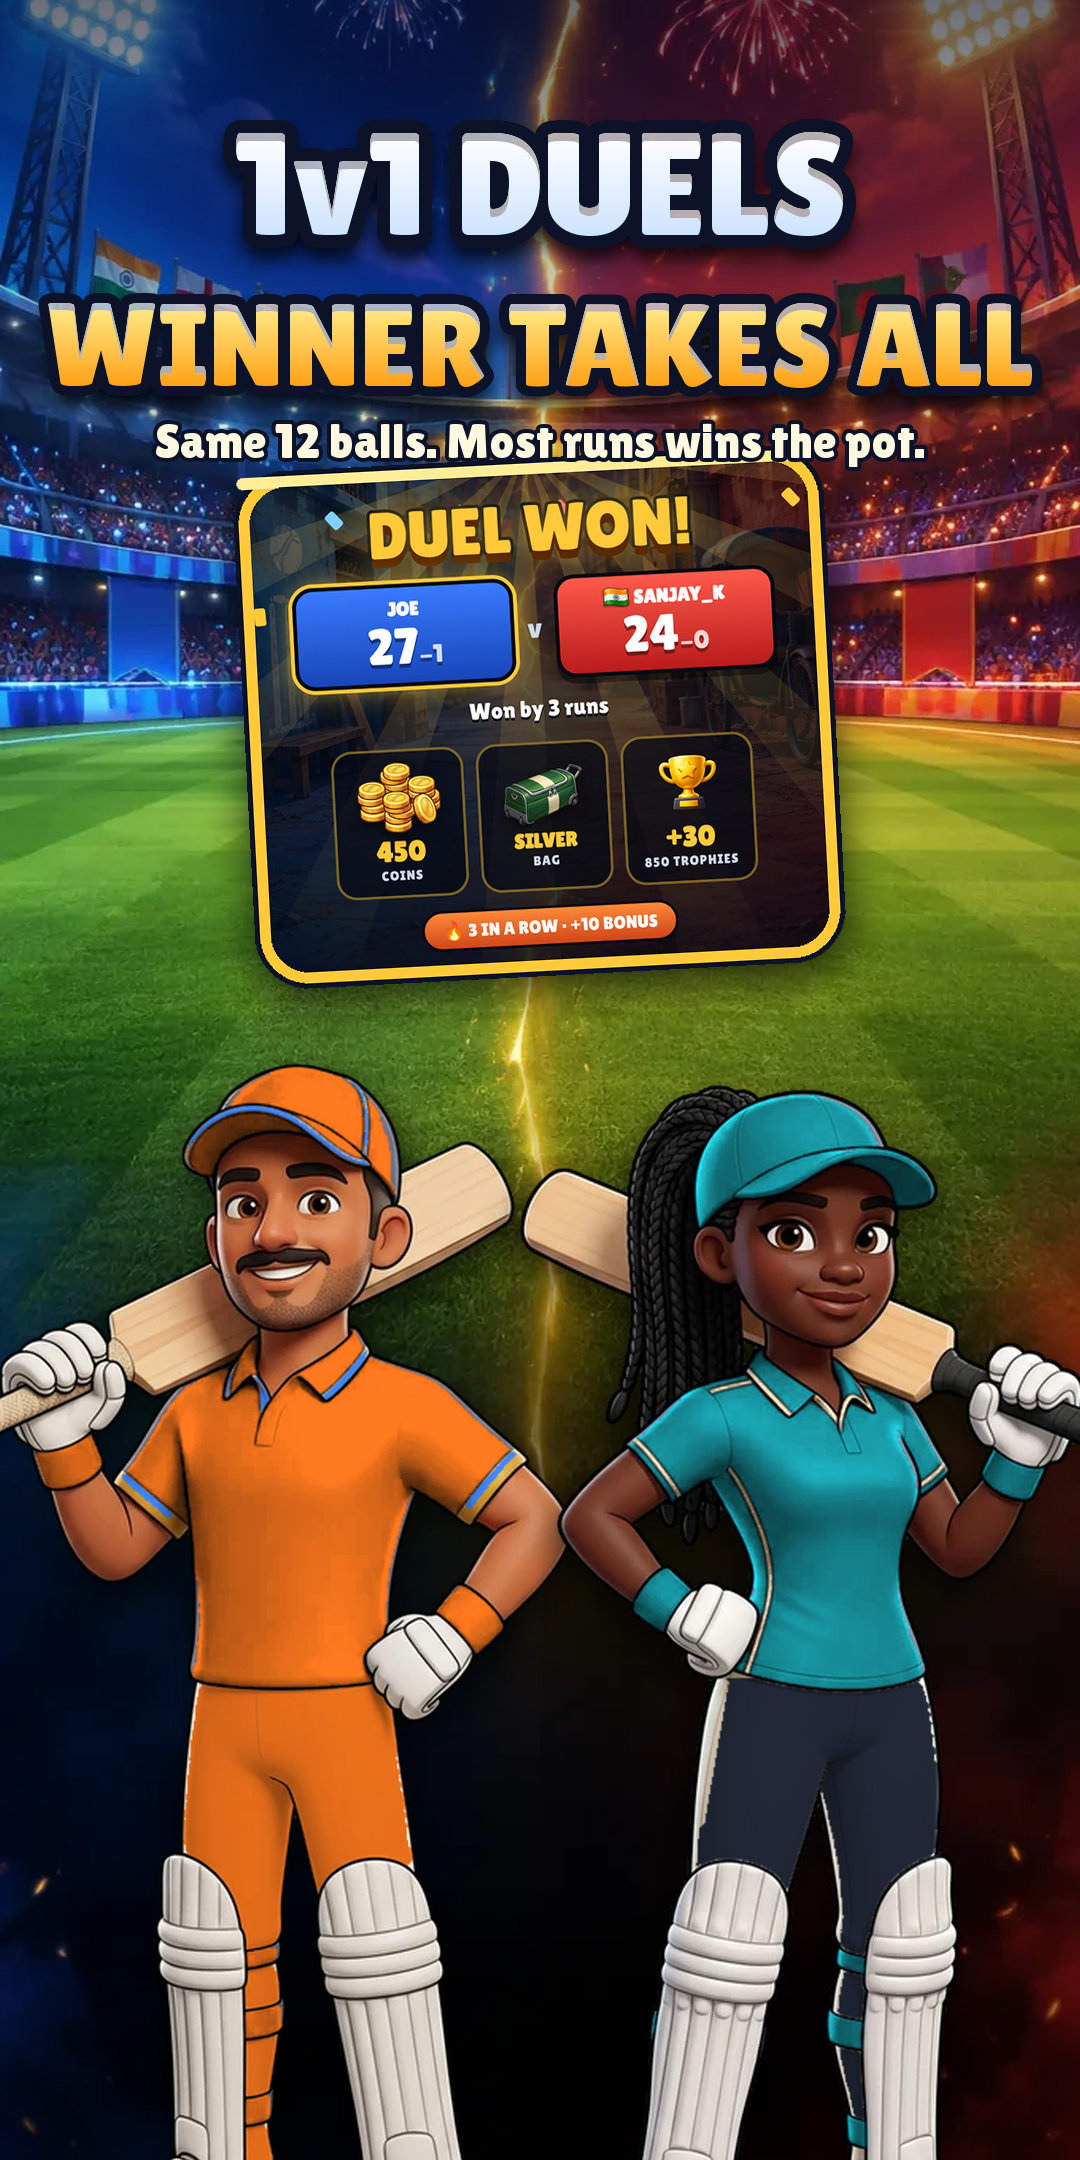
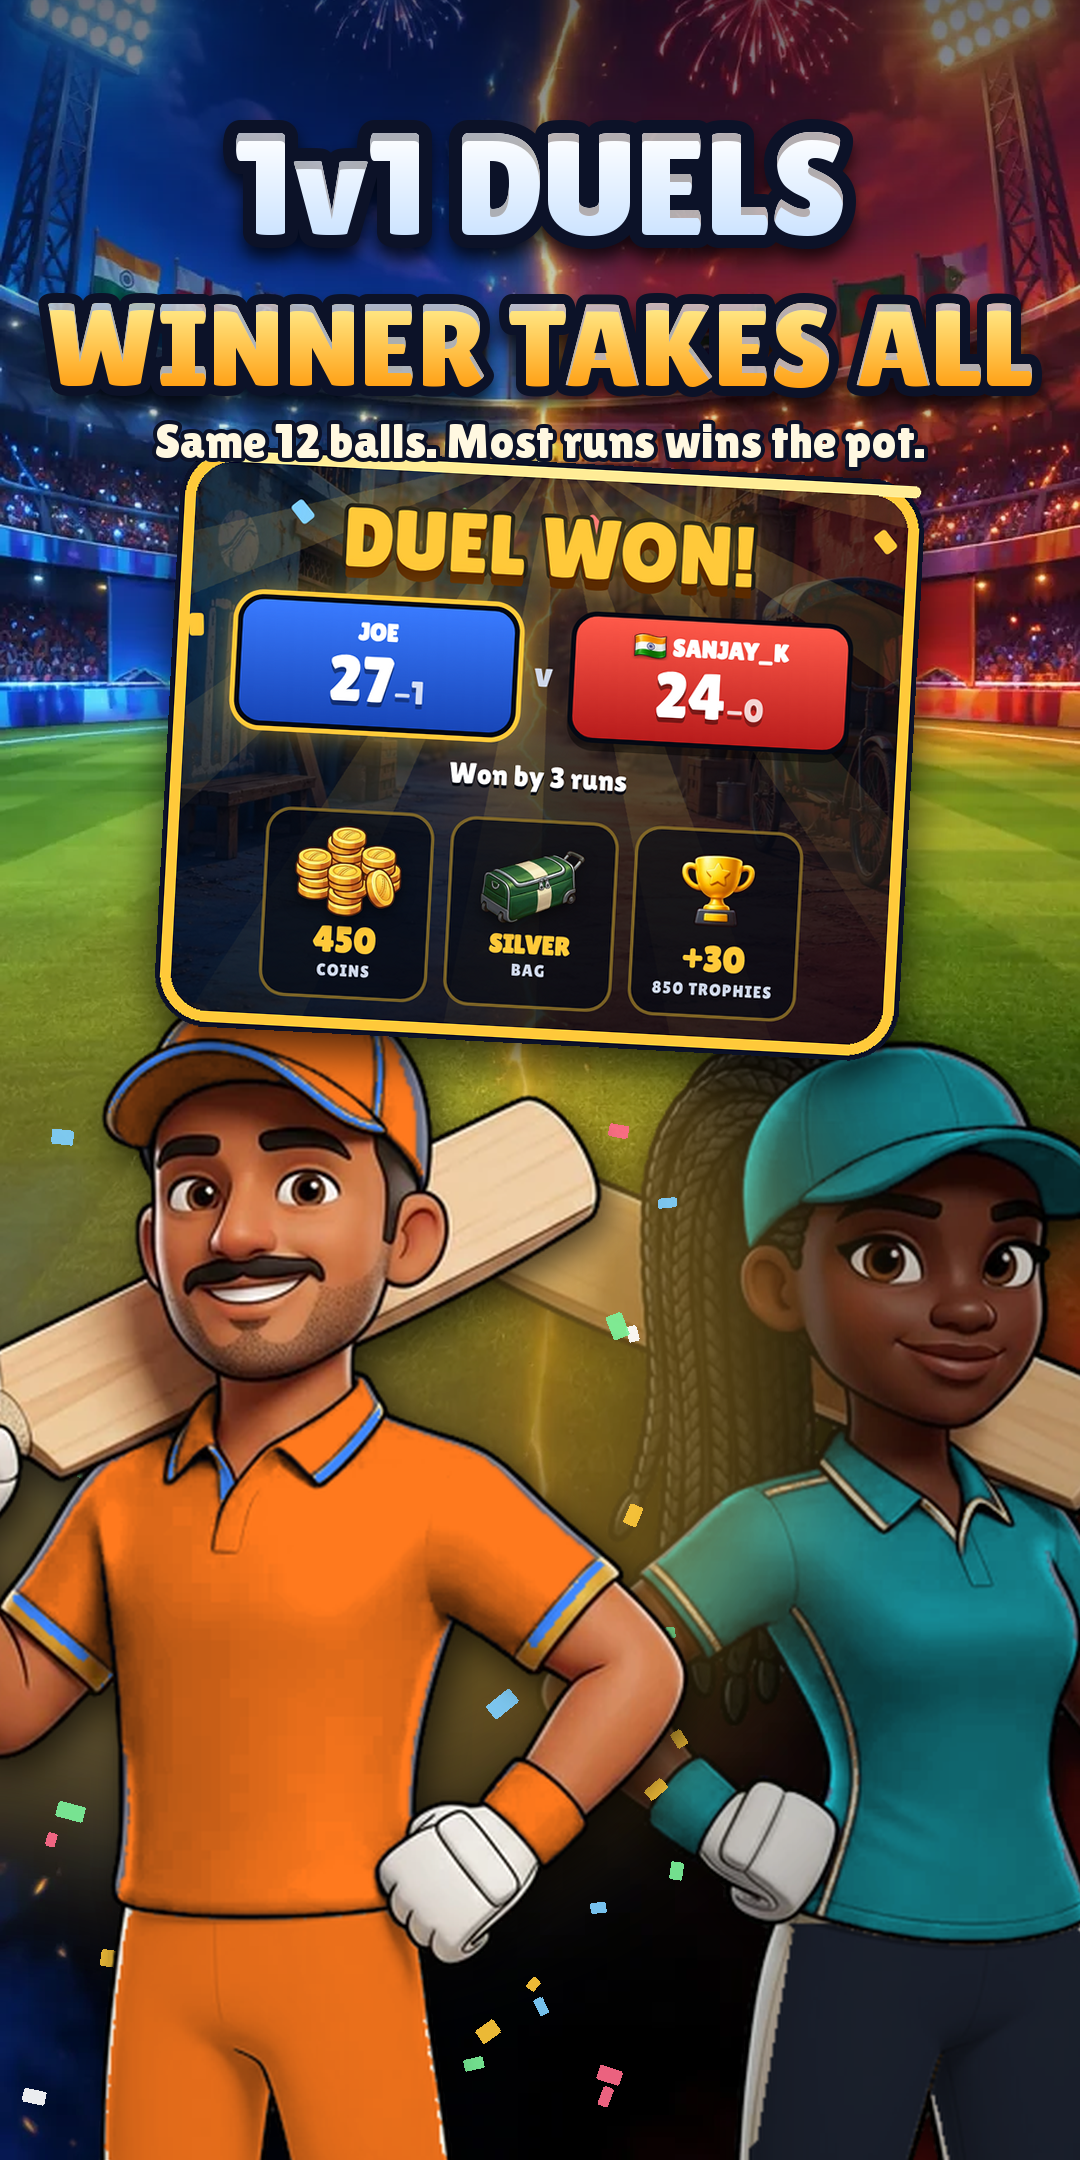
Duels store screenshot: waist-up players, bigger payout card, winner lit gold
Claude-Session: https://claude.ai/code/session_01EnXvJ6P6HcGRxjBSnYPdAU

diff --git a/art/store/duelB.py b/art/store/duelB.py
@@ -9,19 +9,32 @@ x0=(bg.width-W)//2; im=bg.crop((x0,bg.height-H,x0+W,bg.height)).convert('RGBA')
 sh=Image.new('L',(W,H),0); sd=ImageDraw.Draw(sh)
 for y in range(int(H*0.26)): sd.line([(0,y),(W,y)],fill=int(150*(1-y/(H*0.26))**1.4))
 im.paste((6,10,30),(0,0),sh)
-# players, big, from the bottom corners, leaning in
-ph=int(H*0.56)
+# players waist-up, big; the winner (left) lit gold, the rival a touch darker
+import random
+from PIL import ImageEnhance
+ph=int(H*0.80 if H/W>2.1 else H*0.84)
 def player(f,flip):
     p=Image.open(f).convert('RGBA'); p=p.resize((int(p.width*ph/p.height),ph),Image.LANCZOS)
     return p.transpose(Image.FLIP_LEFT_RIGHT) if flip else p
 A=player('pA.png',False); B=player('pB.png',True)
-# soft floor shadow
-fl=Image.new('L',(W,H),0); ImageDraw.Draw(fl).ellipse((int(-0.1*W),int(H*0.9),int(1.1*W),int(H*1.08)),fill=150); fl=fl.filter(ImageFilter.GaussianBlur(40*K)); im.paste((0,0,0),(0,0),fl)
-g['drop'](im,A,int(-0.06*W),H-ph+int(0.05*H),blur=int(20*K),off=(int(10*K),int(18*K)),a=0.6)
-g['drop'](im,B,W-B.width+int(0.06*W),H-ph+int(0.06*H),blur=int(20*K),off=(int(-10*K),int(18*K)),a=0.6)
-# the payout card
-t,b=(0.205,0.46) if H/W>2.1 else (0.205,0.43)
-C=g['card']('dw',(0.0,0.24,1,0.64),W*0.70,H*(b-t),3)
+top=int(H*(0.505 if H/W>2.1 else 0.45))
+B=Image.merge('RGBA',(*ImageEnhance.Brightness(B.convert('RGB')).enhance(0.78).split(),B.getchannel('A')))
+g['drop'](im,B,int(W*0.98-B.width*0.62),top+int(0.025*H),blur=int(20*K),off=(int(-10*K),int(18*K)),a=0.6)
+# gold glow behind the winner
+gl=Image.new('L',(W,H),0); ImageDraw.Draw(gl).ellipse((int(-0.25*W),top-int(0.06*H),int(0.75*W),top+int(0.42*H)),fill=170); gl=gl.filter(ImageFilter.GaussianBlur(90*K))
+im.paste((255,196,60),(0,0),gl.point(lambda v:int(v*0.55)))
+# confetti on the winner's side
+d=ImageDraw.Draw(im); rnd=random.Random(7)
+for i in range(70):
+    x=rnd.uniform(0,W*0.62); y=rnd.uniform(H*0.40,H*0.98); w_=rnd.uniform(10,20)*K; h_=w_*rnd.uniform(1.3,1.9)
+    if x>W*0.04 and x<W*0.52 and y>top and y<top+H*0.20: continue
+    c=rnd.choice([(255,201,58),(255,255,255),(127,208,255),(255,106,138),(124,242,154)])
+    pc=Image.new('RGBA',(int(w_*2),int(h_*2)),(0,0,0,0)); ImageDraw.Draw(pc).rounded_rectangle((w_/2,h_/2,w_*1.5,h_*1.5),int(3*K),fill=c+(235,))
+    pc=pc.rotate(rnd.uniform(0,180),expand=True); im.alpha_composite(pc,(int(x),int(y)))
+g['drop'](im,A,int(W*0.02-A.width*0.30),top,blur=int(20*K),off=(int(10*K),int(18*K)),a=0.6)
+# the payout card, bigger, without the streak strip
+t,b=(0.205,0.49) if H/W>2.1 else (0.205,0.46)
+C=g['card']('dw',(0.0,0.24,1,0.595),W*0.86,H*(b-t),-3)
 g['drop'](im,C,int(W*0.5-C.width/2),int(H*t),blur=int(26*K),off=(0,int(22*K)),a=0.7)
 g['headline'](im,['1v1 DUELS','WINNER TAKES ALL'],'Same 12 balls. Most runs wins the pot.',int(H*0.035))
 import os; os.makedirs(OUTDIR,exist_ok=True); im.convert('RGB').save(f'{OUTDIR}/02.png',optimize=True); print('ok')
